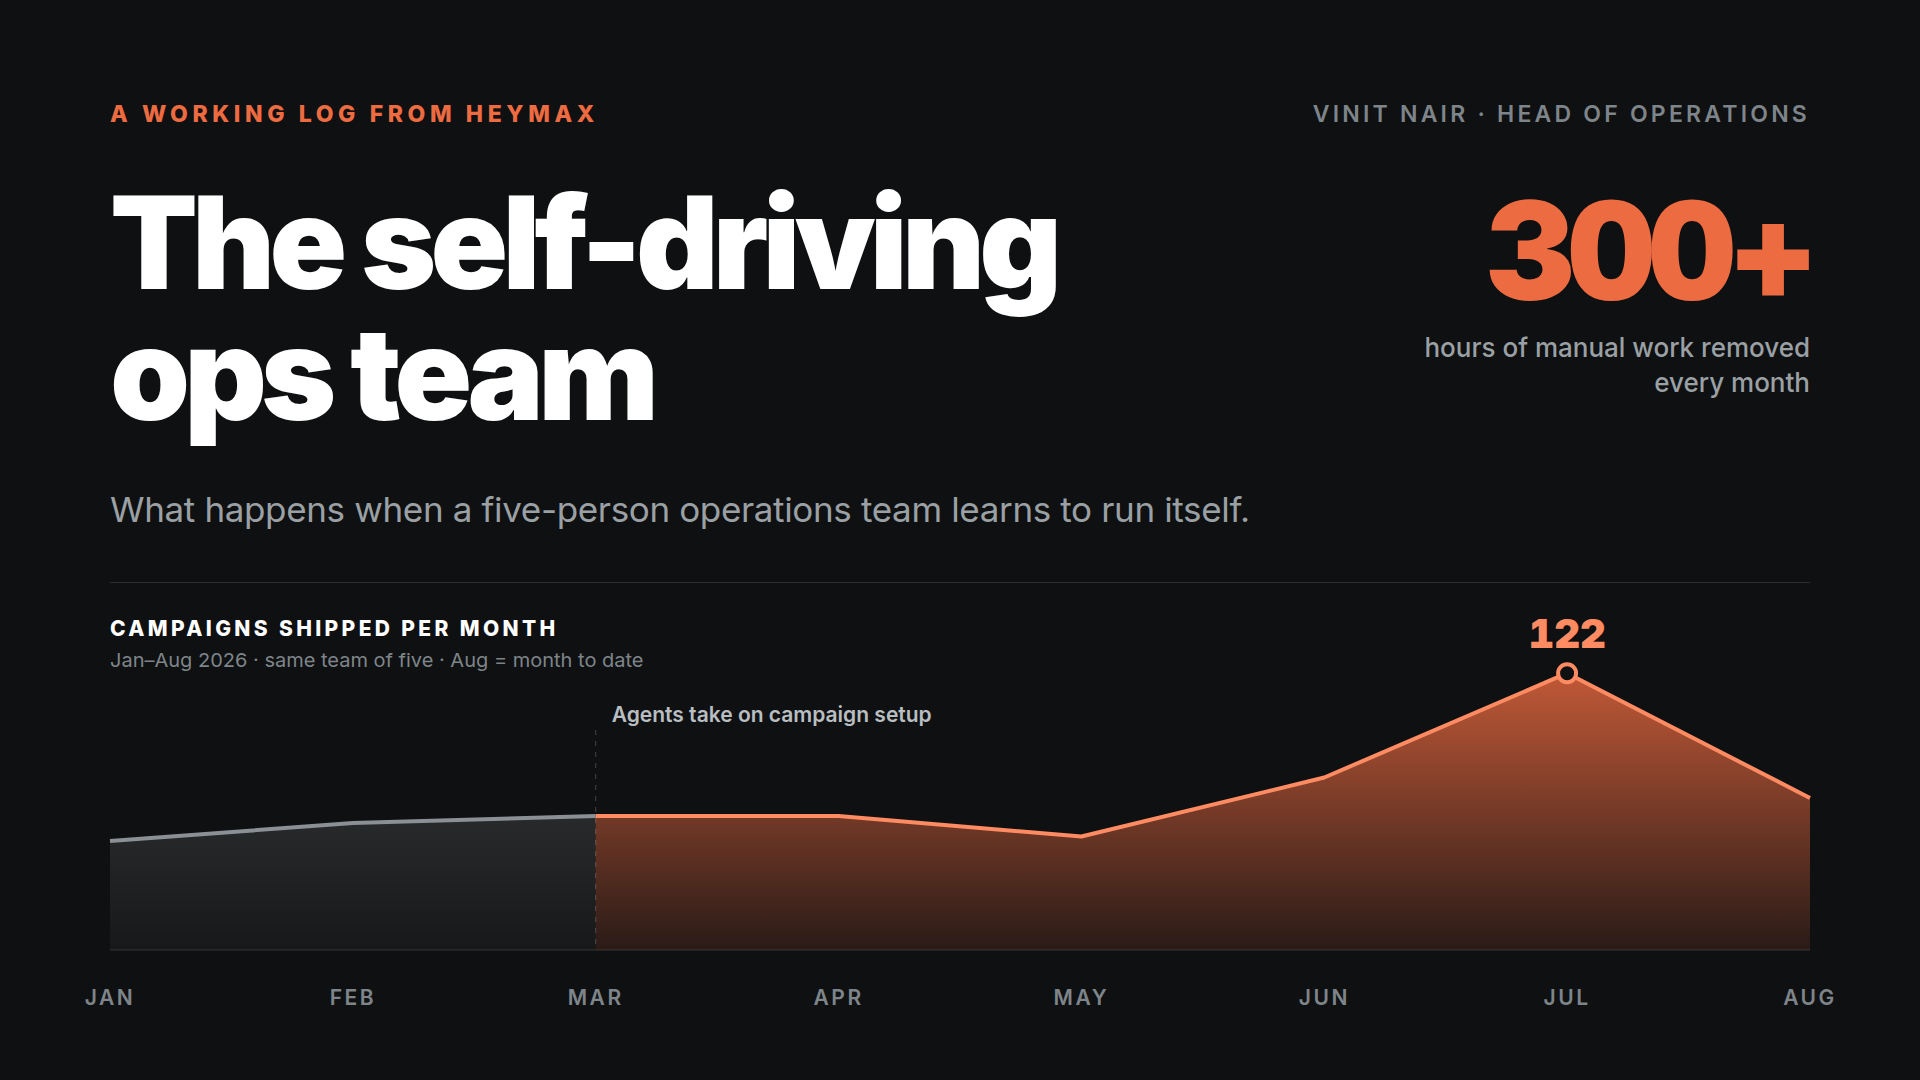
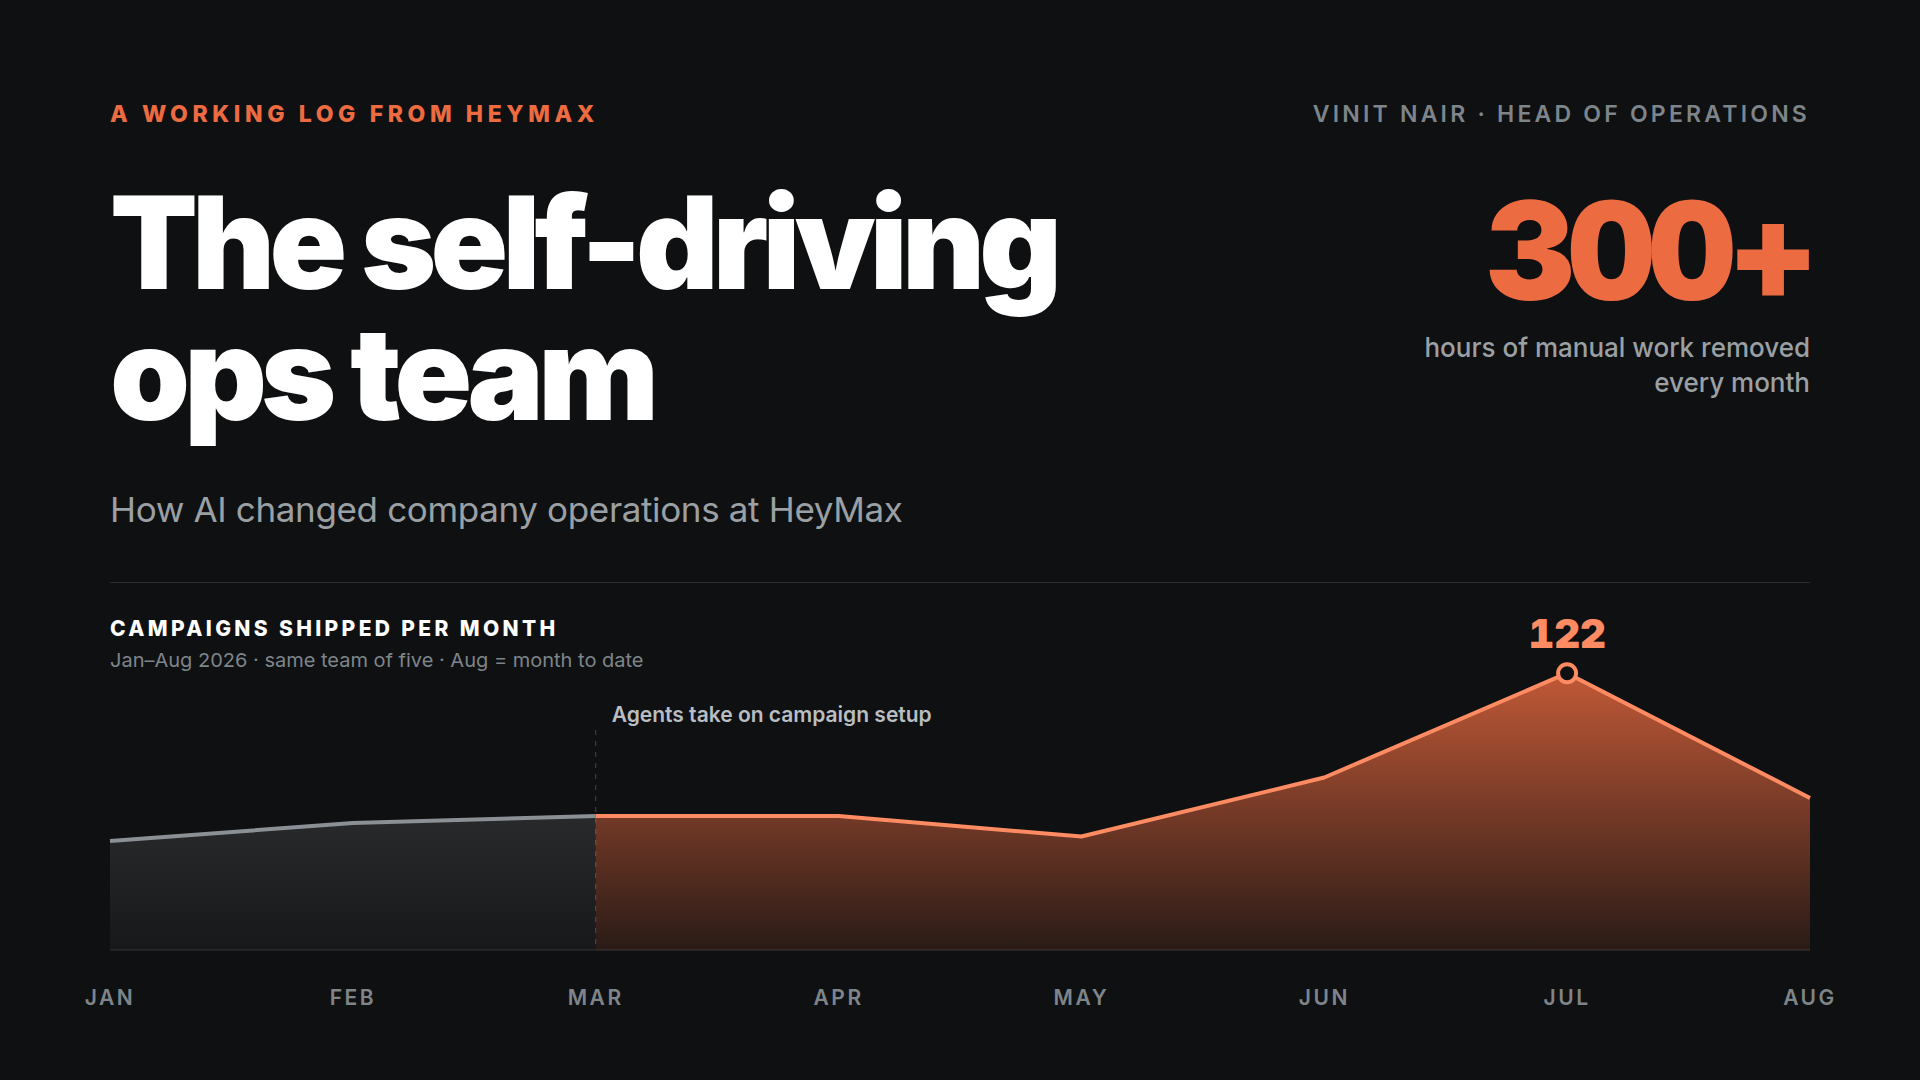
Change the dek to "How AI changed company operations at HeyMax"
Updates the page dek, the meta description that repeated it, and the chart
banner, which carries the same line.

Claude-Session: https://claude.ai/code/session_01EKzsmfUBmAedKkK2osxLSG

Changed region(s): [[0.0625, 0.4583, 0.6562, 0.4889]]

diff --git a/index.html b/index.html
@@ -4,7 +4,7 @@
 <meta charset="UTF-8">
 <meta name="viewport" content="width=device-width, initial-scale=1.0">
 <title>The Self-Driving Ops Team — Vinit Nair</title>
-<meta name="description" content="What happens when a five-person operations team learns to run itself. A working log from HeyMax by Vinit Nair.">
+<meta name="description" content="How AI changed company operations at HeyMax. A working log by Vinit Nair.">
 <link rel="preconnect" href="https://fonts.googleapis.com">
 <link rel="preconnect" href="https://fonts.gstatic.com" crossorigin>
 <link href="https://fonts.googleapis.com/css2?family=Inter:wght@400;500;600;700;800;900&display=swap" rel="stylesheet">
@@ -155,7 +155,7 @@ footer{margin-top:80px;border-top:1px solid var(--line);padding:36px 0 56px}
   <div class="prose">
     <p class="kicker">A working log from HeyMax</p>
     <h1>The self-driving ops team</h1>
-    <p class="dek">What happens when a five-person operations team learns to run itself.</p>
+    <p class="dek">How AI changed company operations at HeyMax</p>
     <div class="byline">
       <b>Vinit Nair</b><span class="sep">·</span><span>Head of Operations, HeyMax</span><span class="sep">·</span><span>Singapore</span><span class="sep">·</span><span>Updated Aug 2026</span>
     </div>
